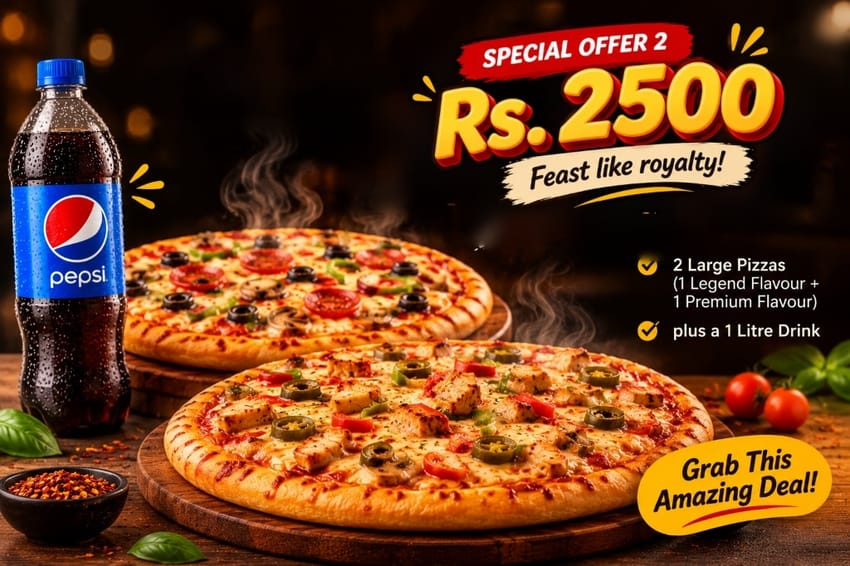
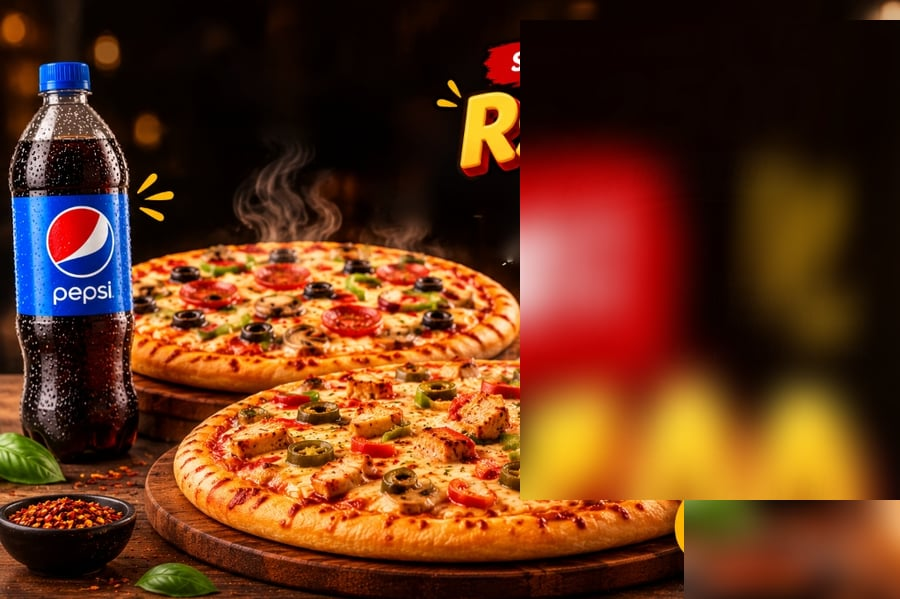
feat: apply new clean photography to Big Flex and remove graphic text overlays from Deal 1 and Deal 2

Changed region(s): [[0.5506, 0.03, 1.0, 1.0], [0.9482, 0.03, 1.0, 0.0901], [0.0612, 0.4806, 0.1224, 0.5106]]

diff --git a/src/context/MenuContext.tsx b/src/context/MenuContext.tsx
@@ -16,7 +16,7 @@ interface MenuContextType {
 }
 
 const MENU_KEY = 'cheese_bites_menu_items_v10_pizzas';
-const DEALS_KEY = 'cheese_bites_deals_items_v8_duo';
+const DEALS_KEY = 'cheese_bites_deals_items_v9_clean_text';
 
 const MenuContext = createContext<MenuContextType | undefined>(undefined);
 

diff --git a/src/pages/Menu.tsx b/src/pages/Menu.tsx
@@ -41,6 +41,7 @@ export const MenuPage: React.FC = () => {
     }
   }, [searchParams]);
 
+  
   // Reset to page 1 whenever category, search query or items per page change
   useEffect(() => {
     setCurrentPage(1);
